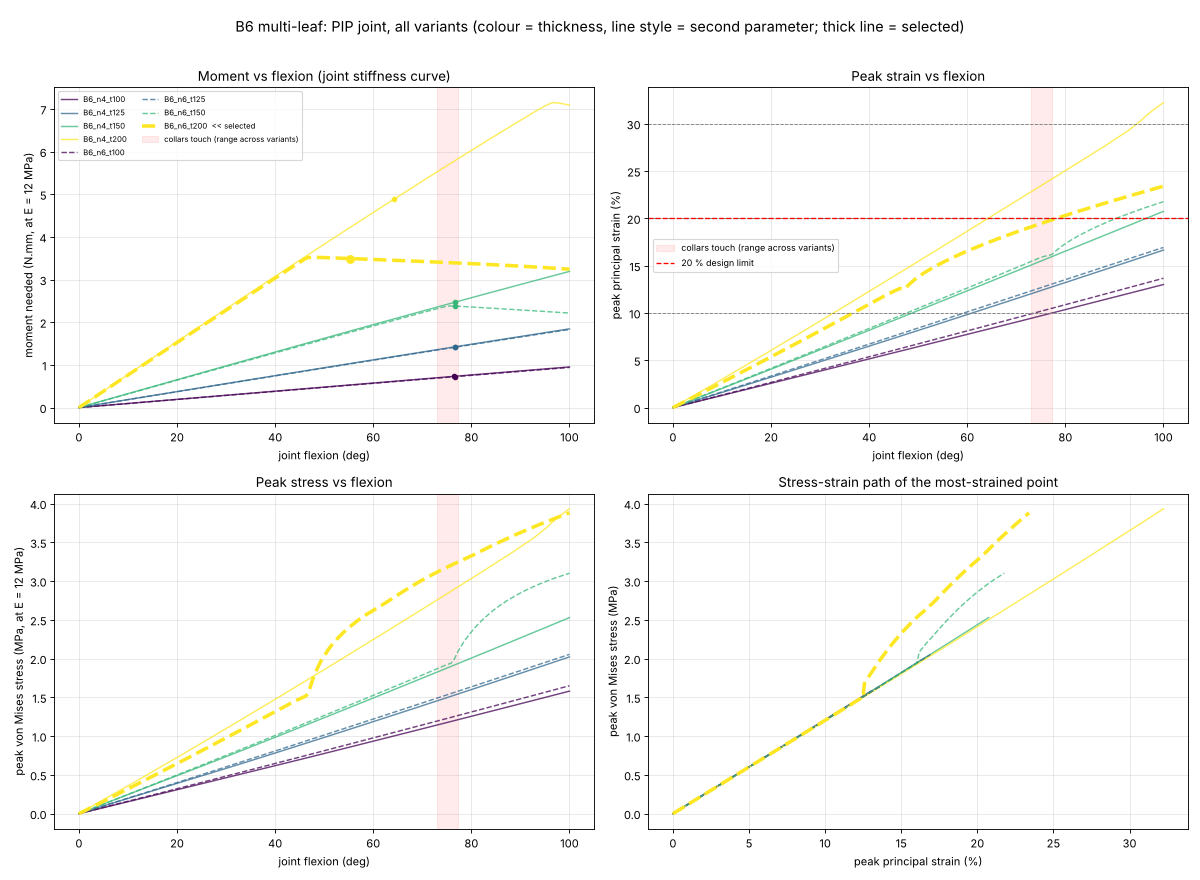
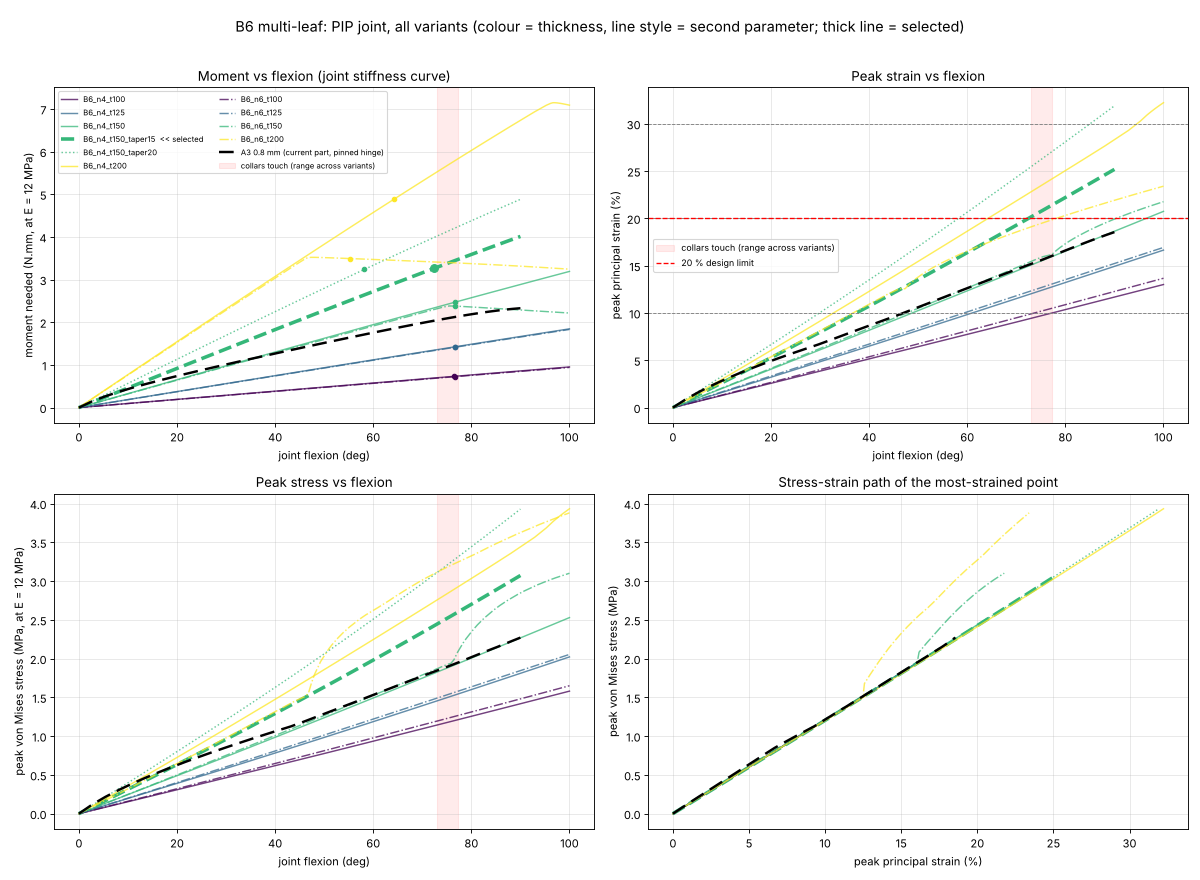
Type B FEA: PIP analysis with A3 benchmark and B5 results
Claude-Session: https://claude.ai/code/session_019vgzUQvkjgwLd39ScRBGKN

diff --git a/TYPE B/analysis/results/tables_PIP.md b/TYPE B/analysis/results/tables_PIP.md
@@ -17,12 +17,32 @@
 
 Winner under each weighting: balanced: `B3_t150_w30`, range-first: `B3_t150_w30`, durability-first: `B3_t150_w30`, equal: `B3_t150_w30_taper20`
 
+### B5 crossed strip
+
+| Variant | Range (deg) | Limited by | Strain @60° | Strain @end | Stress @end (MPa) | k₀ (N·mm/rad) | Moment @end (N·mm) | Tendon force (N) | Side defl. 1 N (°) | Twist 1 N·5 mm (°) | Centre drift (mm) | Return margin | Score |
+|---|---|---|---|---|---|---|---|---|---|---|---|---|---|
+| `B5_t150_a45` **(selected)** | 77.8 | strain 20 % | 14.7 % | 20.0 % | 2.46 | 3.51 | 4.93 | 2.61 | 8.4 | 4.8 | 0.89 | 1.5× | 0.853 |
+| `B5_t150_a60` | 74.6 | strain 20 % | 15.3 % | 20.0 % | 2.43 | 3.31 | 4.62 | 2.44 | 10.0 | 3.3 | 0.97 | 1.5× | 0.763 |
+| `B5_t150_a75` | 75.4 | strain 20 % | 15.1 % | 20.0 % | 2.45 | 3.08 | 4.58 | 2.43 | 12.8 | 2.5 | 1.10 | 1.4× | 0.706 |
+| `B5_t200_a60` | 62.1 | strain 20 % | 19.2 % | 20.0 % | 2.45 | 8.05 | 9.11 | 4.83 | 7.1 | 2.4 | 0.74 | 3.5× | 0.316 |
+| `B5_t200_a45` | 59.1 | strain 20 % | 20.3 % | 20.0 % | 2.46 | 8.51 | 8.91 | 4.72 | 6.0 | 3.2 | 0.67 | 3.7× | 0.263 |
+| `B5_t100_a45` | 77.8 | collision | 10.1 % | 13.7 % | 1.66 | 1.02 | 1.45 | 0.77 | 12.9 | 7.9 | 0.91 | 0.4× | not eligible: too weak to return the finger |
+| `B5_t100_a60` | 79.3 | collision | 9.5 % | 13.4 % | 1.62 | 0.96 | 1.45 | 0.77 | 15.6 | 5.2 | 1.05 | 0.4× | not eligible: too weak to return the finger |
+| `B5_t100_a75` | 81.6 | collision | 9.2 % | 13.3 % | 1.62 | 0.89 | 1.47 | 0.78 | 20.2 | 3.9 | 1.23 | 0.4× | not eligible: too weak to return the finger |
+| `B5_t125_a45` | 77.9 | collision | 12.8 % | 17.6 % | 2.12 | 2.00 | 2.83 | 1.50 | 10.3 | 6.1 | 0.89 | 0.9× | not eligible: too weak to return the finger |
+| `B5_t125_a60` | 79.2 | collision | 11.7 % | 16.4 % | 2.00 | 1.90 | 2.85 | 1.51 | 12.3 | 4.1 | 1.00 | 0.8× | not eligible: too weak to return the finger |
+| `B5_t125_a75` | 81.5 | collision | 12.5 % | 18.3 % | 2.24 | 1.75 | 2.88 | 1.53 | 15.9 | 3.1 | 1.21 | 0.8× | not eligible: too weak to return the finger |
+
+Winner under each weighting: balanced: `B5_t150_a45`, range-first: `B5_t150_a45`, durability-first: `B5_t150_a45`, equal: `B5_t150_a45`
+
 ### B6 multi-leaf
 
 | Variant | Range (deg) | Limited by | Strain @60° | Strain @end | Stress @end (MPa) | k₀ (N·mm/rad) | Moment @end (N·mm) | Tendon force (N) | Side defl. 1 N (°) | Twist 1 N·5 mm (°) | Centre drift (mm) | Return margin | Score |
 |---|---|---|---|---|---|---|---|---|---|---|---|---|---|
-| `B6_n6_t200` **(selected)** | 55.2 | self-contact | 16.5 % | 15.4 % | 2.41 | 4.38 | 3.49 | 1.85 | 8.0 | 14.9 | 0.51 | 1.9× | 0.560 |
-| `B6_n4_t200` | 64.2 | strain 20 % | 18.6 % | 20.0 % | 2.41 | 4.43 | 4.88 | 2.59 | 7.1 | 12.7 | 0.69 | 1.9× | 0.458 |
+| `B6_n4_t150_taper15` **(selected)** | 72.5 | strain 20 % | 16.4 % | 20.0 % | 2.43 | 2.63 | 3.27 | 1.72 | 8.4 | 15.0 | 0.67 | 1.2× | 0.742 |
+| `B6_n6_t200` | 55.2 | self-contact | 16.5 % | 15.4 % | 2.41 | 4.38 | 3.49 | 1.85 | 8.0 | 14.9 | 0.51 | 1.9× | 0.519 |
+| `B6_n4_t150_taper20` | 58.2 | strain 20 % | 20.7 % | 20.0 % | 2.43 | 3.25 | 3.24 | 1.70 | 7.6 | 10.0 | 0.46 | 1.4× | 0.463 |
+| `B6_n4_t200` | 64.2 | strain 20 % | 18.6 % | 20.0 % | 2.41 | 4.43 | 4.88 | 2.59 | 7.1 | 12.7 | 0.69 | 1.9× | 0.397 |
 | `B6_n4_t100` | 76.4 | collision | 7.7 % | 9.9 % | 1.20 | 0.55 | 0.73 | 0.39 | 14.5 | 82.7 | 0.80 | 0.2× | not eligible: too weak to return the finger |
 | `B6_n4_t125` | 76.6 | collision | 9.8 % | 12.6 % | 1.53 | 1.08 | 1.42 | 0.75 | 11.5 | 44.9 | 0.79 | 0.5× | not eligible: too weak to return the finger |
 | `B6_n4_t150` | 76.7 | collision | 12.3 % | 15.8 % | 1.92 | 1.87 | 2.47 | 1.31 | 9.5 | 26.9 | 0.81 | 0.8× | not eligible: too weak to return the finger |
@@ -30,4 +50,4 @@ Winner under each weighting: balanced: `B3_t150_w30`, range-first: `B3_t150_w30`
 | `B6_n6_t125` | 76.7 | collision | 10.1 % | 13.0 % | 1.57 | 1.07 | 1.41 | 0.75 | 12.9 | 52.1 | 0.82 | 0.5× | not eligible: too weak to return the finger |
 | `B6_n6_t150` | 76.7 | collision | 12.6 % | 16.1 % | 2.02 | 1.84 | 2.38 | 1.26 | 10.7 | 31.8 | 0.84 | 0.8× | not eligible: too weak to return the finger |
 
-Winner under each weighting: balanced: `B6_n6_t200`, range-first: `B6_n4_t200`, durability-first: `B6_n6_t200`, equal: `B6_n6_t200`
+Winner under each weighting: balanced: `B6_n4_t150_taper15`, range-first: `B6_n4_t150_taper15`, durability-first: `B6_n4_t150_taper15`, equal: `B6_n4_t150_taper20`
